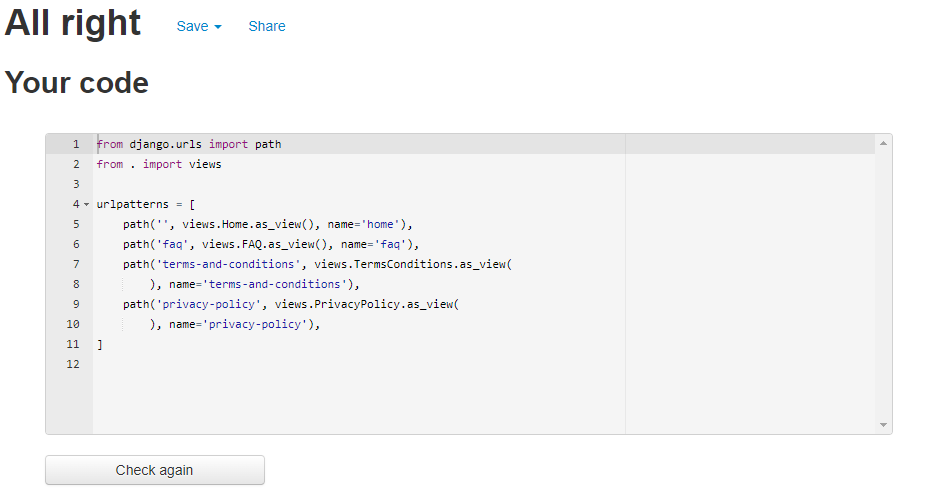
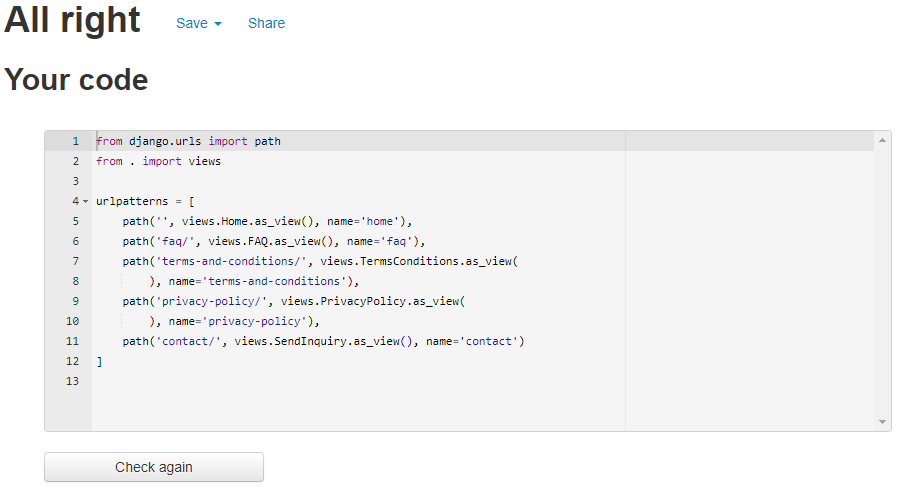
Add contact page & inquiry code testing to README

diff --git a/checkout/templates/checkout/checkout_success.html b/checkout/templates/checkout/checkout_success.html
@@ -16,7 +16,7 @@
                     <p>
                         <small>Do you have any questions? Check out our
                         <a class="text-link" href="{% url 'faq' %}"> FAQs</a>, 
-                        or contact <a class="text-link" href="mailto:hello@email.com"> Customer Service</a>
+                        or contact <a class="text-link" href="{% url 'contact' %}"> Customer Service</a>
                         </small>
                     </p>
                 </div>

diff --git a/home/templates/home/contact.html b/home/templates/home/contact.html
@@ -57,7 +57,7 @@
                     </div>
                 </div>
                 <div class="inquiry-col col-md-6 col-12 mx-auto my-5">
-                    <form id="" method="POST" action="{% url 'contact' %}">
+                    <form method="POST" action="{% url 'contact' %}">
                         {% csrf_token %}
                         <fieldset>
                             <legend class="fs-5">Send us an inquiry</legend>

diff --git a/README.md b/README.md
@@ -1638,6 +1638,14 @@ Some minor warnings related to redundant type attributes on script tags were als
 
 </details>
 
+<details>
+
+<summary>Contact Page</summary>
+
+![Contact Page](static/images/readme-images/testing/html-contact.png)
+
+</details>
+
 ### CSS Validation
 
 All CSS code was checked with the [W3C CSS Validator](https://jigsaw.w3.org/css-validator/). No errors or warnings were found.
@@ -1689,6 +1697,30 @@ All JavaScript code was checked with the [JSHint Code Quality Tool](https://jshi
 ### Python Validation
 
 All Python code was checked with the [PEP8 Online Validator](http://pep8online.com/). No errors or warnings were found.
+
+<details>
+
+<summary>Home App admin.py</summary>
+
+![Home App admin.py](static/images/readme-images/testing/pep8-home-admin.png)
+
+</details>
+
+<details>
+
+<summary>Home App forms.py</summary>
+
+![Home App forms.py](static/images/readme-images/testing/pep8-home-forms.png)
+
+</details>
+
+<details>
+
+<summary>Home App models.py</summary>
+
+![Home App models.py](static/images/readme-images/testing/pep8-home-models.png)
+
+</details>
 
 <details>
 
@@ -2130,6 +2162,14 @@ The lighthouse tool also flagged the text-muted elements as having insufficient 
 
 </details>
 
+<details>
+
+<summary>Lighthouse - Contact Page</summary>
+
+![Lighthouse - Contact Page](static/images/readme-images/testing/lighthouse-contact.png)
+
+</details>
+
 ## Manual Testing
 
 To make sure all interactions and forms / links work as intended, extensive manual testing was performed.
@@ -2137,8 +2177,8 @@ To make sure all interactions and forms / links work as intended, extensive manu
 | Status | Home Page / Header |
 |:------:| ------------------ |
 | &check; | Clicking logo loads homepage |
-| &check; | Clicking Home loads homepage |
 | &check; | Clicking Store loads products page |
+| &check; | Clicking Contact loads contact page |
 | &check; | Submitting search form empty gives error message |
 | &check; | Submitting search form loads products page with correct query |
 | &check; | Clicking Sign In loads sign in page |
@@ -2157,7 +2197,7 @@ To make sure all interactions and forms / links work as intended, extensive manu
 | &check; | Clicking the other social links opens platform home page |
 
 | Status | Products Page |
-|:------:| ------------------ |
+|:------:| ------------- |
 | &check; | Clicking a category loads correct category page |
 | &check; | Clicking home link in breadcrumb navigation loads home page |
 | &check; | Using sort selection works as expected for all options |
@@ -2166,7 +2206,7 @@ To make sure all interactions and forms / links work as intended, extensive manu
 | &check; | Clicking back to top button scrolls to top of the page |
 
 | Status | Product Detail Page |
-|:------:| ------------------ |
+|:------:| ------------------- |
 | &check; | Clicking navigation links in breadcrumb loads correct page |
 | &check; | Clicking a product image loads the image in a separate page |
 | &check; | Clicking add to cart button adds the product to the users cart |
@@ -2187,7 +2227,7 @@ To make sure all interactions and forms / links work as intended, extensive manu
 | &check; | Not providing an image is accepted, placeholder is provided (site admin) |
 
 | Status | Update Product Page |
-|:------:| ---------------- |
+|:------:| ------------------- |
 | &check; | Clicking Back to products takes user back to products page (site admin) |
 | &check; | All fields are prepopulated with saved data (site admin) |
 | &check; | Filling out form incorrectly gives error message (site admin) |
@@ -2196,7 +2236,7 @@ To make sure all interactions and forms / links work as intended, extensive manu
 | &check; | Not providing an image is accepted, placeholder is provided (site admin) |
 
 | Status | Cart Page |
-|:------:| ---------------- |
+|:------:| --------- |
 | &check; | Clicking Continue shopping takes user back to products page |
 | &check; | Clicking a product image or name loads product detail page |
 | &check; | Clicking trash can icon removes product from cart |
@@ -2208,7 +2248,7 @@ To make sure all interactions and forms / links work as intended, extensive manu
 | &check; | Clicking back to top button scrolls to top of the page |
 
 | Status | Checkout Page |
-|:------:| ---------------- |
+|:------:| ------------- |
 | &check; | Clicking Back to cart takes user back to cart page |
 | &check; | Clicking trash can icon removes product from cart |
 | &check; | Filling out form incorrectly gives error message |
@@ -2217,9 +2257,9 @@ To make sure all interactions and forms / links work as intended, extensive manu
 | &check; | Clicking Complete order loads checkout success page after successful payment |
 
 | Status | Checkout Success Page |
-|:------:| ------------ |
+|:------:| --------------------- |
 | &check; | Clicking FAQ link loads FAQ page |
-| &check; | Clicking Customer Service link opens email to company CHANGE IF INQUIRY | FIXBEFORESUB
+| &check; | Clicking Customer Service link loads contact page |
 | &check; | Clicking Back to products loads products page |
 
 | Status | Sign In Page |
@@ -2230,12 +2270,12 @@ To make sure all interactions and forms / links work as intended, extensive manu
 | &check; | Clicking Sign Up loads register page |
 
 | Status | Password Reset Page |
-|:------:| ------------ |
+|:------:| ------------------- |
 | &check; | Filling out form incorrectly gives error message |
 | &check; | Clicking Reset My Password sends reset password email |
 
 | Status | Set Password Page |
-|:------:| ------------ |
+|:------:| ----------------- |
 | &check; | Filling out form incorrectly gives error message |
 | &check; | Setting new password works as expected |
 
@@ -2246,7 +2286,7 @@ To make sure all interactions and forms / links work as intended, extensive manu
 | &check; | User is informed that email verification is required |
 
 | Status | Confirm Email Page |
-|:------:| ------------- |
+|:------:| ------------------ |
 | &check; | Clicking Confirm loads sign in page |
 | &check; | Signing in with registered account works as expected |
 
@@ -2261,19 +2301,19 @@ To make sure all interactions and forms / links work as intended, extensive manu
 | &check; | Clicking a previous order loads specific order history page (signed in) |
 
 | Status | Change Password Page |
-|:------:| ------------ |
-| &check; | Filling out form incorrectly gives error message |
-| &check; | Changing password works as expected |
+|:------:| -------------------- |
+| &check; | Filling out form incorrectly gives error message (signed in) |
+| &check; | Changing password works as expected (signed in) |
 
 | Status | Order History Page |
-|:------:| ------------ |
-| &check; | Clicking FAQ link loads FAQ page |
-| &check; | Clicking Customer Service link opens email to company CHANGE IF INQUIRY | FIXBEFORESUB
-| &check; | Clicking Back to profile loads profile page |
+|:------:| ------------------ |
+| &check; | Clicking FAQ link loads FAQ page (signed in) |
+| &check; | Clicking Customer Service link loads contact page (signed in) |
+| &check; | Clicking Back to profile loads profile page (signed in) |
 
 | Status | Sign Out Page |
 |:------:| ------------- |
-| &check; | Clicking Sign Out signs user out and loads home page |
+| &check; | Clicking Sign Out signs user out and loads home page (signed in) |
 
 | Status | Error Pages |
 |:------:| ----------- |
@@ -2281,6 +2321,14 @@ To make sure all interactions and forms / links work as intended, extensive manu
 | &check; | Loads 404 page when a user gives an invalid url |
 | &check; | Loads 500 page when an error occurs |
 | &check; | Clicking Take me back to safety! loads home page |
+
+| Status | Contact Page |
+|:------:| ------------ |
+| &check; | Clicking Facebook link opens Gamers Ground Facebook page |
+| &check; | All fields are prepopulated with saved data (signed in) |
+| &check; | Filling out form incorrectly gives error message |
+| &check; | Filling out form correctly saves inquiry and redirects to home page |
+| &check; | Filling out form correctly automatically sends an email to site admin & the user |
 
 ## User Story Testing
 
@@ -2432,13 +2480,21 @@ To make sure all interactions and forms / links work as intended, extensive manu
     | &check; | I can easily find an option to rate / review a product I have bought |
     | &check; | When I leave a review, I can immediately see it reflected on the site |
 
-- As a site user I can delete my own review so that I can decide which of my own content is visible, and I can write a new review if I wish.
+- As a Site User I can delete my own review so that I can decide which of my own content is visible, and I can write a new review if I wish.
 
     | Status | Acceptance Criteria |
     |:------:| ----------- |
     | &check; | I can easily find a 'delete' link by my review |
     | &check; | When I click it, I am asked if I am sure if I wish to delete the review, so I don't delete something by accident |
     | &check; | When I delete my review, it is immediately removed from the site |
+
+- As a Site User I can contact Gamers Ground so that I can ask questions or give feedback.
+
+    | Status | Acceptance Criteria |
+    |:------:| ----------- |
+    | &check; | I can easily find a link / button for a contact page |
+    | &check; | I can fill in the form and, if I am signed in, my info will be prefilled |
+    | &check; | When I submit the form, I receive a copy of the inquiry to my email |
 
 ### User Checkout
 
@@ -2501,6 +2557,13 @@ To make sure all interactions and forms / links work as intended, extensive manu
     | &check; | I can delete / edit reviews from there |
     | &check; | I can see who wrote the review so I can decide if I need to warn or remove the account |
 
+- As a Site Admin I can manage and respond to inquiries so that I can communicate with customers.
+
+    | Status | Acceptance Criteria |
+    |:------:| ----------- |
+    | &check; | I can see all submitted inquiries on the Django admin page |
+    | &check; | I receive all inquiries on the company email with all info |
+
 ## Automated Testing
 
 Using Django TestCase automated python testing was performed, which helped show the benefits of writing tests for code. For this project a Minimum Viable Product was prioritized, therefore the application was built before the tests were written. Due to time constraints not all code have been tested, but a large portion have been covered as evident by the coverage report below.
@@ -2509,7 +2572,7 @@ The local sqlite3 database provided the test database used. To achieve best prac
 
 When creating tests, the coverage package was used to generate an html report of the tests. From the report, the tested code can be reviewed and the exact lines of code not covered by written tests are marked. By utilizing this tool, a high coverage for the files tested was achieved.
 
-A total of 58 tests were written for the cart, checkout and products apps. A total coverage of 87% was achieved, while the tested apps all came close to 100% coverage. The result is presented below.
+A total of 58 tests were written for the cart, checkout and products apps. A total coverage of 86% was achieved, while the tested apps all came close to 100% coverage. The result is presented below.
 
 <details>
 
@@ -2560,6 +2623,8 @@ When a signed in user visited the checkout page and his account didn't have a st
 ## Known/Unfixed Bugs
 
 As of writing this readme, no known bugs remain unfixed. It is possible, however, that unknown / not found bugs are left within the project. If found in the future, these will be documented and fixes will be implemented.
+
+FIXBEFORESUB
 
 # Technologies Used
 
